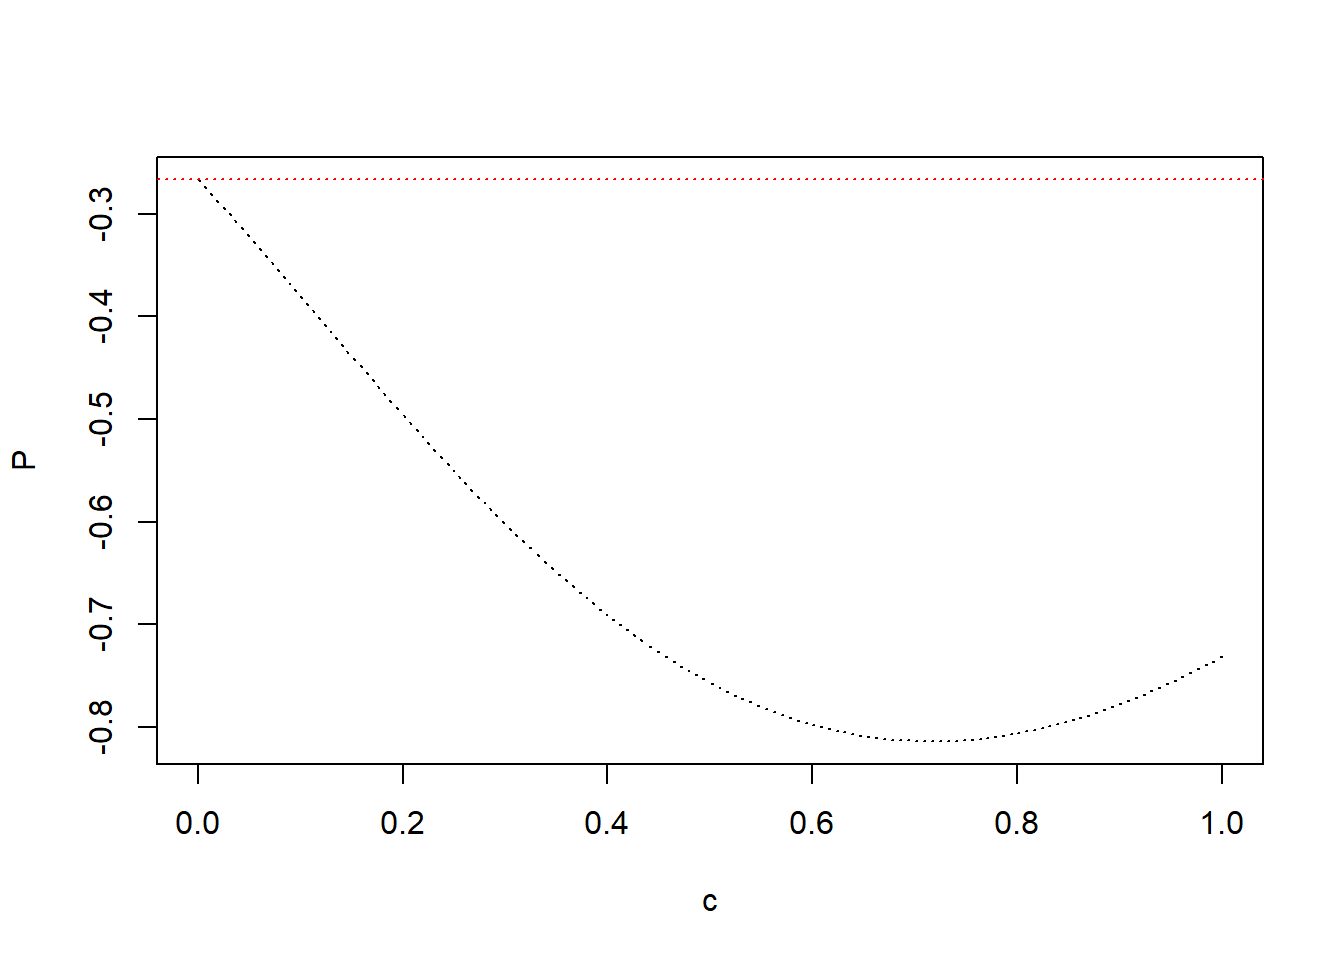
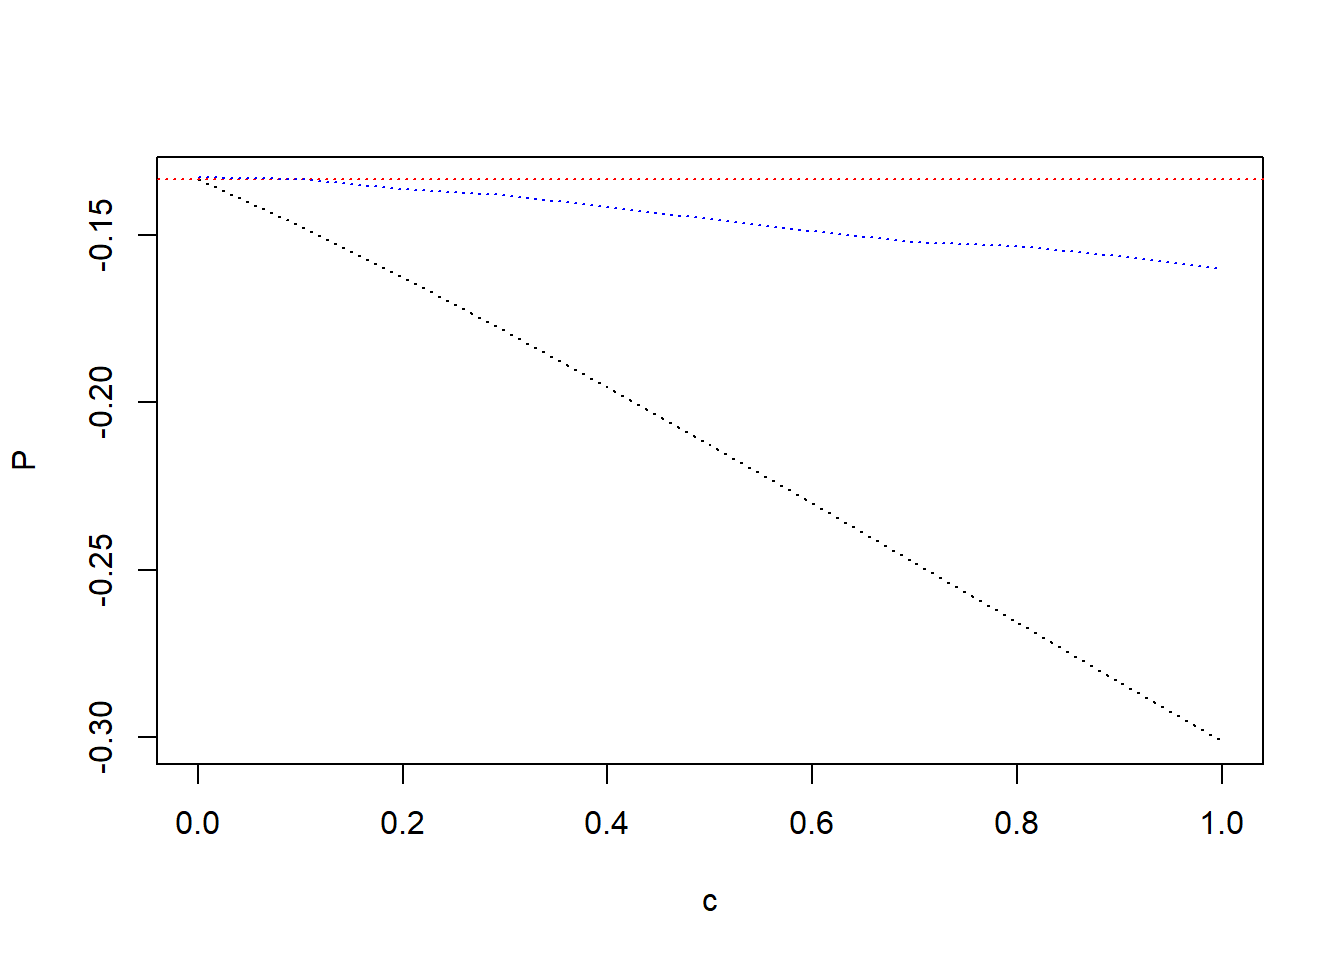
update

diff --git a/public/research/etf持股影响股票定价效率的理论模型推导/index.html b/public/research/etf持股影响股票定价效率的理论模型推导/index.html
@@ -342,7 +342,7 @@ condvar&lt;-function(S,c,af){
   return(vr)
 }
 set.seed(100)
-theta=0.2
+theta=0.1
 au&lt;-af&lt;-2
 simamu=au^2/3
 c=0
@@ -350,7 +350,7 @@ w=0.5
 epsilon&lt;-runif(101,-2,2)
 S=seq(-(1+c)*au/2,(1+c)*au/2,0.02)
 VFI=laply(S,condvar,c,2)
-P=2*S+c*epsilon-theta*simamu-(1-w)*((S+c*epsilon+VFI)/(1+w*VFI/simamu))
+P=2*S+c*epsilon-theta*simamu-(1-w)*((S+c*epsilon+VFI*theta)/(1+w*VFI/simamu))
 
 plot(S,P,lty=3,type = &quot;l&quot;)</code></pre>
 <p><img src="/research/2021-01-14-etf持股影响股票定价效率的理论模型推导_files/figure-html/unnamed-chunk-2-1.png" width="672" /></p>
@@ -361,23 +361,77 @@ plot(S,thetaU,col=&quot;blue&quot;,lty=3,type = &quot;l&quot;)
 lines(S,thetaI,col=&quot;red&quot;)
 abline(h=theta,lty=3)</code></pre>
 <p><img src="/research/2021-01-14-etf持股影响股票定价效率的理论模型推导_files/figure-html/unnamed-chunk-2-2.png" width="672" />
-期望价格为：</p>
-<p><span class="math display">\[E[P]=\int _{\frac{(1-c)a_F}{2}}^{\frac{(1+c)a_F}{2}}Pf(S)dS+\int _{-\frac{(1-c)a_F}{2}}^{\frac{(1-c)a_F}{2}}Pf(S)dS+\int _{-\frac{(1+c)a_F}{2}}^{-\frac{(1-c)a_F}{2}}Pf(S)dS\\
-=\frac{1}{(1+c)a_F}\bigg[S^2-\bar\theta\sigma_u^2S-(1-w)[\frac{3\sigma_u^2}{2w}ln(1+\frac{w}{12\sigma_u^2}[(1+c)a_F-2S])+\frac{\bar\theta\sigma_u^2}{w}S\\+(\frac{\bar\theta\sigma_u^2}{2w}-\frac{(1+c)a_F}{4})(\frac{w}{12\sigma_u^2})^{-\frac{1}{2}}arctan(\sqrt{\frac{w}{12\sigma_u^2}}[(1+c)a_F-2S])\bigg]\bigg|_{\frac{(1-c)a_F}{2}}^{\frac{(1+c)a_F}{2}}\\
-+\frac{1}{(1+c)a_F}\bigg[S^2-\bar\theta\sigma_u^2S-(1-w)[\frac{S^2}{2(1+\frac{wc^2a_F^2}{3\sigma_u^2})}+\frac{S\frac{c^2a_F^2\bar\theta}{3}}{(1+\frac{wc^2a_F^2}{3\sigma_u^2})}\bigg]\bigg|_{-\frac{(1-c)a_F}{2}}^{\frac{(1-c)a_F}{2}}\\
-+\frac{1}{(1+c)a_F}\bigg[S^2-\bar\theta\sigma_u^2S-(1-w)[\frac{3\sigma_u^2}{2w}ln(1+\frac{w}{12\sigma_u^2}[(1+c)a_F+2S])+\frac{\bar\theta\sigma_u^2}{w}S\\-(\frac{\bar\theta\sigma_u^2}{2w}+\frac{(1+c)a_F}{4})(\frac{w}{12\sigma_u^2})^{-\frac{1}{2}}arctan(\sqrt{\frac{w}{12\sigma_u^2}}[(1+c)a_F+2S])\bigg]\bigg|_{-\frac{(1+c)a_F}{2}}^{-\frac{(1-c)a_F}{2}}\\
-=\frac{1}{(1+c)a_F}\bigg[-\bar\theta\sigma_u^2(1+c)a_F-(1-w)\frac{(1-c)c^2a_F^3}{1+wc^2a_F^2/3\sigma_u^2}-\frac{\theta\sigma_u^2}{w}\sqrt{12\sigma_u^2/w}arctan(\sqrt{\frac{w}{12\sigma_u^2}}2ca_F)\bigg]\]</span></p>
+由于<span class="math inline">\(F\)</span>与<span class="math inline">\(\varepsilon\)</span>为相互独立的均匀分布<span class="math inline">\([-a_F,a_F]\)</span>，股票价格可以表示为：
+<span class="math display">\[\begin{equation}
+P=\left\{
+\begin{aligned}
+&amp;F-\bar\theta\sigma_u^2-(1-w)\frac{\frac{1}{2}(F+c\varepsilon)+\frac{1}{12}[(1+c)a_F-2S]^2\bar\theta}{1+w\frac{1}{12}[(1+c)a_F-2S]^2/\sigma_u^2},\hspace{0.5cm} (1-c)a_F+c\varepsilon\le F \le (1+c)a_F+c\varepsilon \\
+&amp;F-\bar\theta\sigma_u^2-(1-w)\frac{\frac{1}{2}(F+c\varepsilon)+\frac{1}{3}(c^2a_F^2)\bar\theta}{1+w\frac{1}{3}(c^2a_F^2)/\sigma_u^2},\hspace{0.5cm}-(1-c)a_F+c\varepsilon&lt; F&lt; (1-c)a_F+c\varepsilon \\
+&amp;F-\bar\theta\sigma_u^2-(1-w)\frac{\frac{1}{2}(F+c\varepsilon)+\frac{1}{12}[(1+c)a_F+2S]^2\bar\theta}{1+w\frac{1}{12}[(1+c)a_F+2S]^2/\sigma_u^2},\hspace{0.5cm} -(1+c)a_F+c\varepsilon \le F\le-(1-c)a_F+c\varepsilon  
+\end{aligned}
+\right.
+\end{equation}\]</span>
+则期望价格为：</p>
+<p><span class="math display">\[E[P]=\int _{-a_F}^{a_F}d\varepsilon\int _{(1-c)a_F+c\varepsilon}^{(1+c)a_F+c\varepsilon}Pf(F)f(\varepsilon)dF+\int _{-a_F}^{a_F}\int _{-(1-c)a_F+c\varepsilon}^{(1-c)a_F+c\varepsilon}Pf(F)f(\varepsilon)dF+\int _{-a_F}^{a_F}d\varepsilon\int _{-(1+c)a_F+c\varepsilon}^{-(1-c)a_F+c\varepsilon}Pf(F)f(\varepsilon)dF\\
+=-\frac{2\sigma_u^2c\bar \theta}{w}-\sigma_u^2(1-c)\bar\theta-(1-w)\frac{(1-c)c^2a_F^2\bar\theta}{3+wc^2a_F^2/\sigma_u^2}+(1-w)\frac{\sigma_u^2\bar\theta}{wa_F}(\frac{w}{12\sigma_u^2})^{-\frac{1}{2}}arctan(\sqrt{\frac{w}{12\sigma_u^2}2ca_F})\]</span></p>
 <p>参数设定，<span class="math inline">\(a_u=a_F=2\)</span>，<span class="math inline">\(\theta=0.1\)</span>，<span class="math inline">\(w=0.5\)</span>，<span class="math inline">\(c=0.01\)</span>，具体代码如下：</p>
 <pre class="r"><code>set.seed(100)
-theta=0.2
+library(plyr)
+theta=0.1
 au&lt;-af&lt;-2
 simamu=au^2/3
-c=seq(0,1,0.01)
+c=seq(0,1,0.1)
 w=0.5
-P=(-theta*simamu*(1+c)*af-(1-w)*(1-c)*c^2*af^3/(1+w*c^2*af^2/(3*simamu))-theta*simamu/w*sqrt(12*simamu/w)*atan(sqrt(w/(12*simamu))*2*c*af))/((1+c)*af)
+P=-2*simamu*c*theta/w-theta*simamu*(1-c)-(1-w)*(1-c)*c^2*af^2*theta/(3+w*c^2*af^2/simamu)+(1-w)*(simamu*theta/(w*af))*sqrt(12*simamu/w)*atan(sqrt(w/(12*simamu))*2*c*af)
+
+condmean&lt;-function(S,c,af){
+  cm&lt;-NULL
+  if(S&gt;=(1-c)*af/2&amp;S&lt;=(1+c)*af/2){
+    cm&lt;-((1-c)*af+2*S)/2
+  }else{
+    if(S&lt;=-(1-c)*af/2&amp;S&gt;=-(1+c)*af/2){
+      cm&lt;-(2*S-(1-c)*af)/2
+    }else{
+      cm=2*S
+    }
+  }
+  return(cm)
+}
+
+condvar&lt;-function(S,c,af){
+  vr&lt;-NULL
+  if(S&gt;=(1-c)*af/2&amp;S&lt;=(1+c)*af/2){
+    vr&lt;-((1+c)*af-2*S)^2/12
+  }else{
+    if(S&lt;=-(1-c)*af/2&amp;S&gt;=-(1+c)*af/2){
+      vr&lt;-((1+c)*af+2*S)^2/12
+    }else{
+      vr&lt;-(2*c*af)^2/12
+    }
+  }
+  return(vr)
+}
+
+
+w=0.5
+
+meanP&lt;-function(c,w){
+  theta=0.1
+  au&lt;-af&lt;-2
+  simamu=au^2/3
+  epsilon&lt;-runif(1000000,-2,2)
+  df&lt;-runif(1000000,-2,2)
+  S=(df-epsilon*c)/2
+  VFI=laply(S,condvar,c,2)
+  mP=mean(2*S+c*epsilon-theta*simamu-(1-w)*(S+c*epsilon+theta*VFI)/(1+w*VFI/simamu))
+  return(data.frame(c,w,mP,me=mean(2*S+c*epsilon-theta*simamu-(1-w)*(S+c*epsilon+VFI)/(1+w*VFI/simamu))))
+}
+
+mp&lt;-ldply(c,meanP,w)
 
 plot(c,P,lty=3,type = &quot;l&quot;)
-abline(h=-theta*simamu,col=&quot;red&quot;,lty=3)</code></pre>
+abline(h=-theta*simamu,col=&quot;red&quot;,lty=3)
+lines(mp$c,mp$mP,col=&quot;blue&quot;,lty=3)</code></pre>
 <p><img src="/research/2021-01-14-etf持股影响股票定价效率的理论模型推导_files/figure-html/unnamed-chunk-3-1.png" width="672" /></p>
 </div>
 

diff --git a/content/research/2021-01-14-etf持股影响股票定价效率的理论模型推导.html b/content/research/2021-01-14-etf持股影响股票定价效率的理论模型推导.html
@@ -261,7 +261,7 @@ condvar&lt;-function(S,c,af){
   return(vr)
 }
 set.seed(100)
-theta=0.2
+theta=0.1
 au&lt;-af&lt;-2
 simamu=au^2/3
 c=0
@@ -269,7 +269,7 @@ w=0.5
 epsilon&lt;-runif(101,-2,2)
 S=seq(-(1+c)*au/2,(1+c)*au/2,0.02)
 VFI=laply(S,condvar,c,2)
-P=2*S+c*epsilon-theta*simamu-(1-w)*((S+c*epsilon+VFI)/(1+w*VFI/simamu))
+P=2*S+c*epsilon-theta*simamu-(1-w)*((S+c*epsilon+VFI*theta)/(1+w*VFI/simamu))
 
 plot(S,P,lty=3,type = &quot;l&quot;)</code></pre>
 <p><img src="/research/2021-01-14-etf持股影响股票定价效率的理论模型推导_files/figure-html/unnamed-chunk-2-1.png" width="672" /></p>
@@ -280,22 +280,76 @@ plot(S,thetaU,col=&quot;blue&quot;,lty=3,type = &quot;l&quot;)
 lines(S,thetaI,col=&quot;red&quot;)
 abline(h=theta,lty=3)</code></pre>
 <p><img src="/research/2021-01-14-etf持股影响股票定价效率的理论模型推导_files/figure-html/unnamed-chunk-2-2.png" width="672" />
-期望价格为：</p>
-<p><span class="math display">\[E[P]=\int _{\frac{(1-c)a_F}{2}}^{\frac{(1+c)a_F}{2}}Pf(S)dS+\int _{-\frac{(1-c)a_F}{2}}^{\frac{(1-c)a_F}{2}}Pf(S)dS+\int _{-\frac{(1+c)a_F}{2}}^{-\frac{(1-c)a_F}{2}}Pf(S)dS\\
-=\frac{1}{(1+c)a_F}\bigg[S^2-\bar\theta\sigma_u^2S-(1-w)[\frac{3\sigma_u^2}{2w}ln(1+\frac{w}{12\sigma_u^2}[(1+c)a_F-2S])+\frac{\bar\theta\sigma_u^2}{w}S\\+(\frac{\bar\theta\sigma_u^2}{2w}-\frac{(1+c)a_F}{4})(\frac{w}{12\sigma_u^2})^{-\frac{1}{2}}arctan(\sqrt{\frac{w}{12\sigma_u^2}}[(1+c)a_F-2S])\bigg]\bigg|_{\frac{(1-c)a_F}{2}}^{\frac{(1+c)a_F}{2}}\\
-+\frac{1}{(1+c)a_F}\bigg[S^2-\bar\theta\sigma_u^2S-(1-w)[\frac{S^2}{2(1+\frac{wc^2a_F^2}{3\sigma_u^2})}+\frac{S\frac{c^2a_F^2\bar\theta}{3}}{(1+\frac{wc^2a_F^2}{3\sigma_u^2})}\bigg]\bigg|_{-\frac{(1-c)a_F}{2}}^{\frac{(1-c)a_F}{2}}\\
-+\frac{1}{(1+c)a_F}\bigg[S^2-\bar\theta\sigma_u^2S-(1-w)[\frac{3\sigma_u^2}{2w}ln(1+\frac{w}{12\sigma_u^2}[(1+c)a_F+2S])+\frac{\bar\theta\sigma_u^2}{w}S\\-(\frac{\bar\theta\sigma_u^2}{2w}+\frac{(1+c)a_F}{4})(\frac{w}{12\sigma_u^2})^{-\frac{1}{2}}arctan(\sqrt{\frac{w}{12\sigma_u^2}}[(1+c)a_F+2S])\bigg]\bigg|_{-\frac{(1+c)a_F}{2}}^{-\frac{(1-c)a_F}{2}}\\
-=\frac{1}{(1+c)a_F}\bigg[-\bar\theta\sigma_u^2(1+c)a_F-(1-w)\frac{(1-c)c^2a_F^3}{1+wc^2a_F^2/3\sigma_u^2}-\frac{\theta\sigma_u^2}{w}\sqrt{12\sigma_u^2/w}arctan(\sqrt{\frac{w}{12\sigma_u^2}}2ca_F)\bigg]\]</span></p>
+由于<span class="math inline">\(F\)</span>与<span class="math inline">\(\varepsilon\)</span>为相互独立的均匀分布<span class="math inline">\([-a_F,a_F]\)</span>，股票价格可以表示为：
+<span class="math display">\[\begin{equation}
+P=\left\{
+\begin{aligned}
+&amp;F-\bar\theta\sigma_u^2-(1-w)\frac{\frac{1}{2}(F+c\varepsilon)+\frac{1}{12}[(1+c)a_F-2S]^2\bar\theta}{1+w\frac{1}{12}[(1+c)a_F-2S]^2/\sigma_u^2},\hspace{0.5cm} (1-c)a_F+c\varepsilon\le F \le (1+c)a_F+c\varepsilon \\
+&amp;F-\bar\theta\sigma_u^2-(1-w)\frac{\frac{1}{2}(F+c\varepsilon)+\frac{1}{3}(c^2a_F^2)\bar\theta}{1+w\frac{1}{3}(c^2a_F^2)/\sigma_u^2},\hspace{0.5cm}-(1-c)a_F+c\varepsilon&lt; F&lt; (1-c)a_F+c\varepsilon \\
+&amp;F-\bar\theta\sigma_u^2-(1-w)\frac{\frac{1}{2}(F+c\varepsilon)+\frac{1}{12}[(1+c)a_F+2S]^2\bar\theta}{1+w\frac{1}{12}[(1+c)a_F+2S]^2/\sigma_u^2},\hspace{0.5cm} -(1+c)a_F+c\varepsilon \le F\le-(1-c)a_F+c\varepsilon  
+\end{aligned}
+\right.
+\end{equation}\]</span>
+则期望价格为：</p>
+<p><span class="math display">\[E[P]=\int _{-a_F}^{a_F}d\varepsilon\int _{(1-c)a_F+c\varepsilon}^{(1+c)a_F+c\varepsilon}Pf(F)f(\varepsilon)dF+\int _{-a_F}^{a_F}\int _{-(1-c)a_F+c\varepsilon}^{(1-c)a_F+c\varepsilon}Pf(F)f(\varepsilon)dF+\int _{-a_F}^{a_F}d\varepsilon\int _{-(1+c)a_F+c\varepsilon}^{-(1-c)a_F+c\varepsilon}Pf(F)f(\varepsilon)dF\\
+=-\frac{2\sigma_u^2c\bar \theta}{w}-\sigma_u^2(1-c)\bar\theta-(1-w)\frac{(1-c)c^2a_F^2\bar\theta}{3+wc^2a_F^2/\sigma_u^2}+(1-w)\frac{\sigma_u^2\bar\theta}{wa_F}(\frac{w}{12\sigma_u^2})^{-\frac{1}{2}}arctan(\sqrt{\frac{w}{12\sigma_u^2}2ca_F})\]</span></p>
 <p>参数设定，<span class="math inline">\(a_u=a_F=2\)</span>，<span class="math inline">\(\theta=0.1\)</span>，<span class="math inline">\(w=0.5\)</span>，<span class="math inline">\(c=0.01\)</span>，具体代码如下：</p>
 <pre class="r"><code>set.seed(100)
-theta=0.2
+library(plyr)
+theta=0.1
 au&lt;-af&lt;-2
 simamu=au^2/3
-c=seq(0,1,0.01)
+c=seq(0,1,0.1)
 w=0.5
-P=(-theta*simamu*(1+c)*af-(1-w)*(1-c)*c^2*af^3/(1+w*c^2*af^2/(3*simamu))-theta*simamu/w*sqrt(12*simamu/w)*atan(sqrt(w/(12*simamu))*2*c*af))/((1+c)*af)
+P=-2*simamu*c*theta/w-theta*simamu*(1-c)-(1-w)*(1-c)*c^2*af^2*theta/(3+w*c^2*af^2/simamu)+(1-w)*(simamu*theta/(w*af))*sqrt(12*simamu/w)*atan(sqrt(w/(12*simamu))*2*c*af)
+
+condmean&lt;-function(S,c,af){
+  cm&lt;-NULL
+  if(S&gt;=(1-c)*af/2&amp;S&lt;=(1+c)*af/2){
+    cm&lt;-((1-c)*af+2*S)/2
+  }else{
+    if(S&lt;=-(1-c)*af/2&amp;S&gt;=-(1+c)*af/2){
+      cm&lt;-(2*S-(1-c)*af)/2
+    }else{
+      cm=2*S
+    }
+  }
+  return(cm)
+}
+
+condvar&lt;-function(S,c,af){
+  vr&lt;-NULL
+  if(S&gt;=(1-c)*af/2&amp;S&lt;=(1+c)*af/2){
+    vr&lt;-((1+c)*af-2*S)^2/12
+  }else{
+    if(S&lt;=-(1-c)*af/2&amp;S&gt;=-(1+c)*af/2){
+      vr&lt;-((1+c)*af+2*S)^2/12
+    }else{
+      vr&lt;-(2*c*af)^2/12
+    }
+  }
+  return(vr)
+}
+
+
+w=0.5
+
+meanP&lt;-function(c,w){
+  theta=0.1
+  au&lt;-af&lt;-2
+  simamu=au^2/3
+  epsilon&lt;-runif(1000000,-2,2)
+  df&lt;-runif(1000000,-2,2)
+  S=(df-epsilon*c)/2
+  VFI=laply(S,condvar,c,2)
+  mP=mean(2*S+c*epsilon-theta*simamu-(1-w)*(S+c*epsilon+theta*VFI)/(1+w*VFI/simamu))
+  return(data.frame(c,w,mP,me=mean(2*S+c*epsilon-theta*simamu-(1-w)*(S+c*epsilon+VFI)/(1+w*VFI/simamu))))
+}
+
+mp&lt;-ldply(c,meanP,w)
 
 plot(c,P,lty=3,type = &quot;l&quot;)
-abline(h=-theta*simamu,col=&quot;red&quot;,lty=3)</code></pre>
+abline(h=-theta*simamu,col=&quot;red&quot;,lty=3)
+lines(mp$c,mp$mP,col=&quot;blue&quot;,lty=3)</code></pre>
 <p><img src="/research/2021-01-14-etf持股影响股票定价效率的理论模型推导_files/figure-html/unnamed-chunk-3-1.png" width="672" /></p>
 </div>
